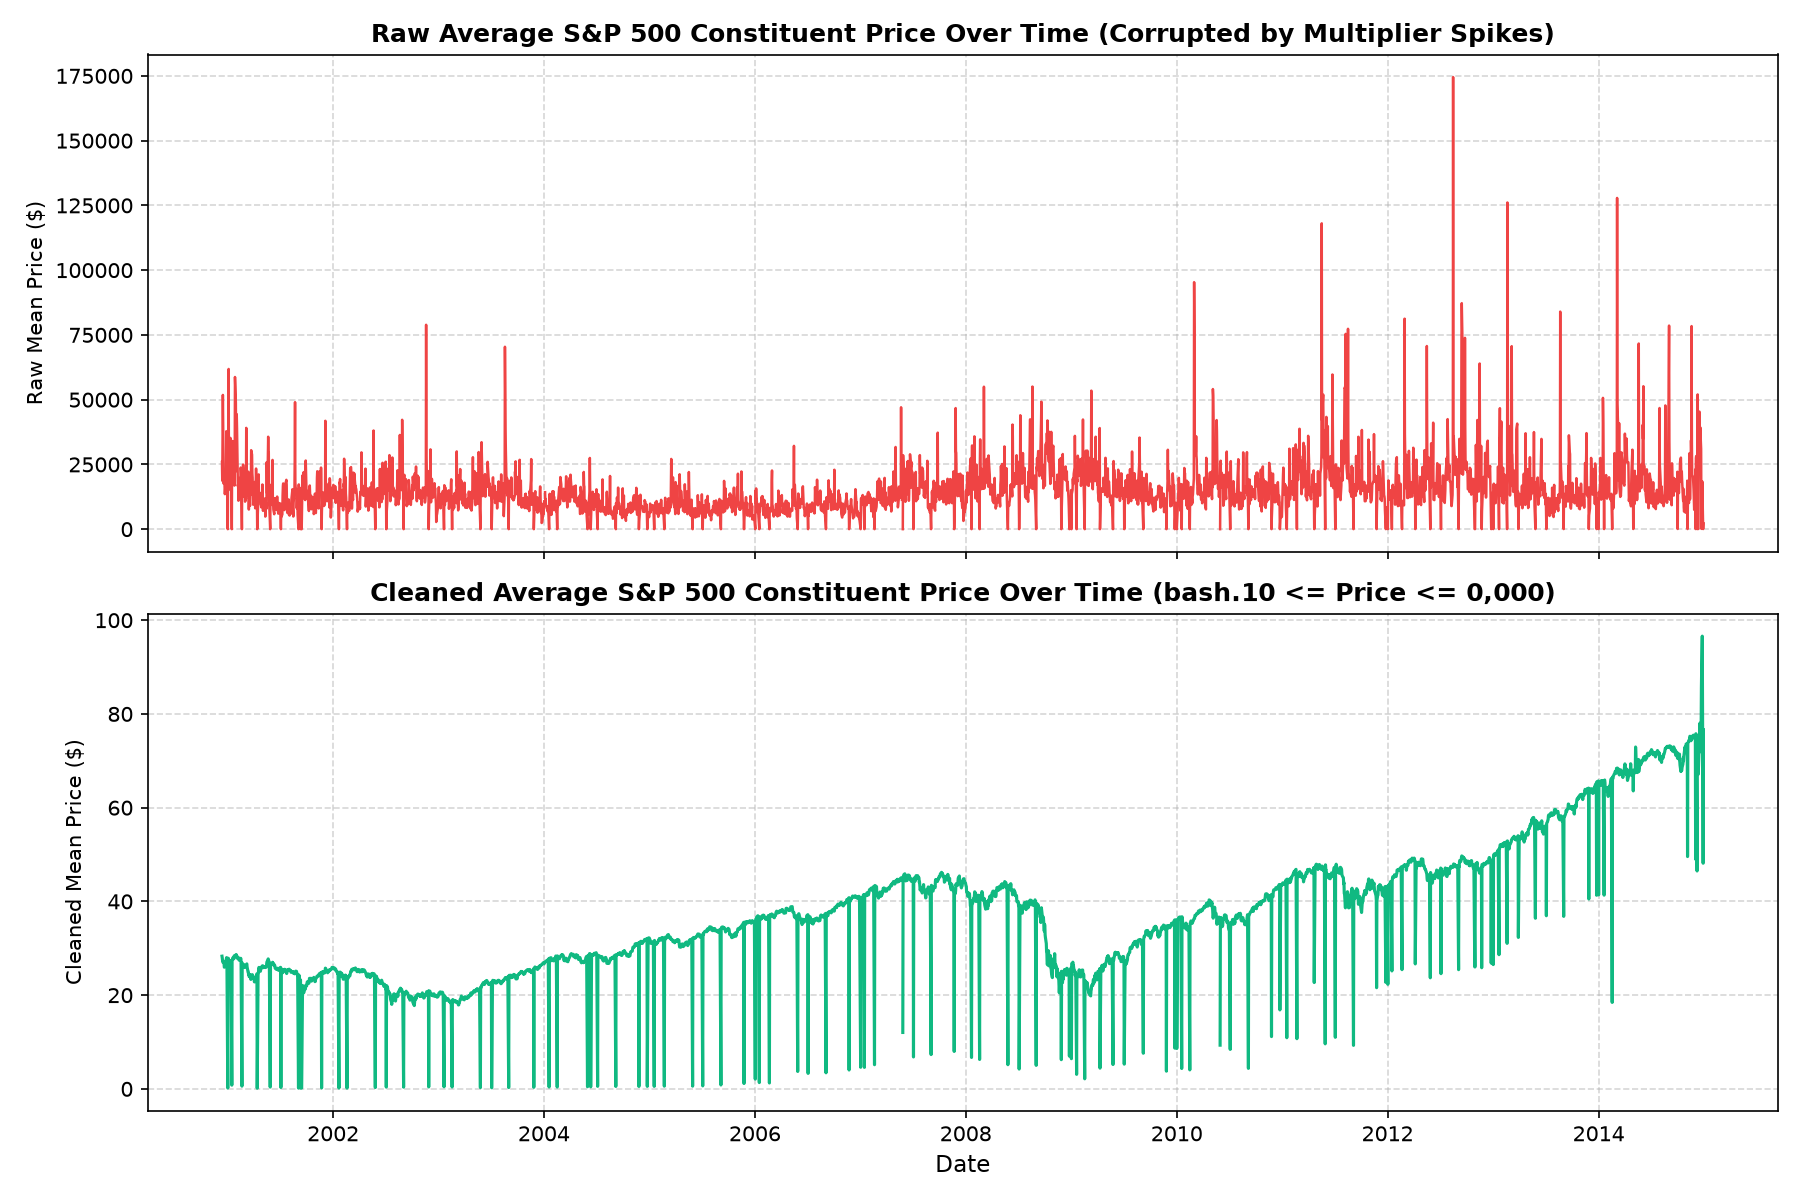
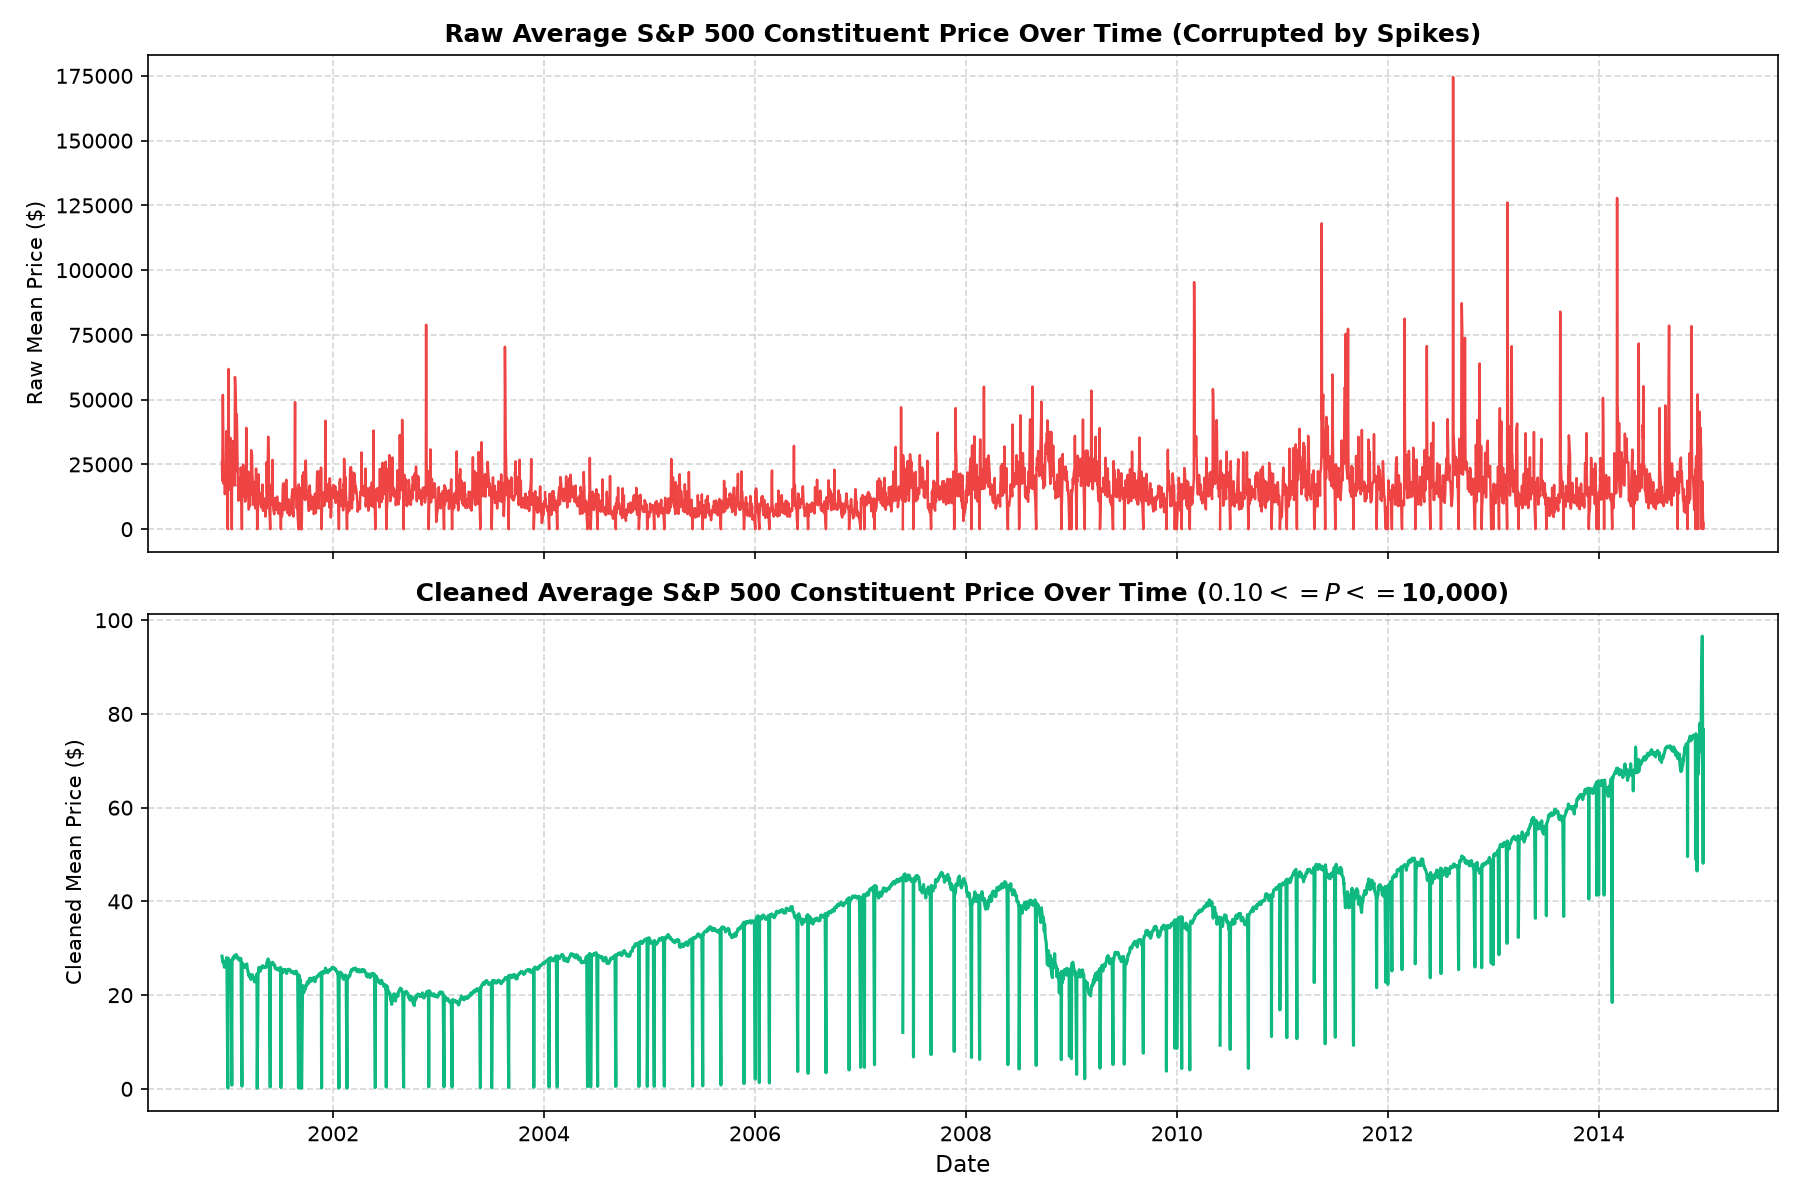
refactor: enhance memory_reducer API flexibility and pre-render notebook outputs for audit

Changed region(s): [[0.2178, 0.4625, 0.8711, 0.5242], [0.2178, 0.0, 0.8711, 0.0617]]

diff --git a/scripts/memory_reducer.py b/scripts/memory_reducer.py
@@ -1,6 +1,7 @@
+import os
 import pandas as pd
 import numpy as np
-import os
+from typing import Union
 
 
 def get_memory_usage(df: pd.DataFrame) -> float:
@@ -9,7 +10,14 @@ def get_memory_usage(df: pd.DataFrame) -> float:
 
 
 def optimize_dtypes(df: pd.DataFrame) -> pd.DataFrame:
-    """Optimize numeric column dtypes to reduce memory usage."""
+    """
+    Optimize numeric column dtypes to reduce memory usage:
+    - Iterate over every column
+    - Determine if the column is numeric
+    - Determine if the column can be represented by an integer
+    - Find min and max values
+    - Apply smallest datatype that fits range (np.float32 minimum for floats)
+    """
     df = df.copy()
 
     for col in df.columns:
@@ -19,52 +27,67 @@ def optimize_dtypes(df: pd.DataFrame) -> pd.DataFrame:
             if pd.api.types.is_integer_dtype(col_type):
                 df[col] = pd.to_numeric(df[col], downcast='integer')
             else:
+                # For floating-point data, the smallest data type used must be np.float32
                 df[col] = df[col].astype(np.float32)
 
     return df
 
 
-def memory_reducer(paths: dict) -> tuple:
+def memory_reducer(input_data: Union[str, dict]) -> Union[pd.DataFrame, tuple]:
     """
-    Load CSV files, optimize dtypes, and return memory-optimized DataFrames.
+    Load CSV file(s), optimize types to reduce memory usage, and return optimized DataFrame(s).
 
-    Args:
-        paths: dict with keys 'prices' and 'sp500' pointing to CSV file paths
-
-    Returns:
-        Tuple of (prices_df, sp500_df) with optimized dtypes
+    Supports:
+    1. Single CSV file path (str): returns single memory-optimized DataFrame.
+    2. Dict of paths (dict): e.g. {'prices': 'path', 'sp500': 'path'}, returns (prices_df, sp500_df).
     """
-    prices_path = paths['prices']
-    sp500_path = paths['sp500']
+    if isinstance(input_data, str):
+        df = pd.read_csv(input_data)
+        if 'Date' in df.columns:
+            df = df.rename(columns={'Date': 'date'})
+        if 'Adjusted Close' in df.columns:
+            df = df.rename(columns={'Adjusted Close': 'adj_close'})
+        if 'date' in df.columns:
+            df['date'] = pd.to_datetime(df['date'])
 
-    prices = pd.read_csv(prices_path)
-    sp500 = pd.read_csv(sp500_path)
+        initial_mem = get_memory_usage(df)
+        df = optimize_dtypes(df)
+        optimized_mem = get_memory_usage(df)
+        print(f"Memory reduction ({os.path.basename(input_data)}): {initial_mem:.2f} MB -> {optimized_mem:.2f} MB")
+        return df
 
-    prices = prices.rename(columns={'Date': 'date'})
-    sp500 = sp500[['Date', 'Adjusted Close']].rename(columns={'Date': 'date', 'Adjusted Close': 'adj_close'})
-    sp500['date'] = pd.to_datetime(sp500['date'])
+    elif isinstance(input_data, dict):
+        prices_path = input_data['prices']
+        sp500_path = input_data['sp500']
 
-    print(f"Original prices memory: {get_memory_usage(prices):.2f} MB")
-    print(f"Original sp500 memory: {get_memory_usage(sp500):.2f} MB")
+        prices = pd.read_csv(prices_path)
+        sp500 = pd.read_csv(sp500_path)
 
-    sp500 = optimize_dtypes(sp500)
+        prices = prices.rename(columns={'Date': 'date'})
+        sp500 = sp500[['Date', 'Adjusted Close']].rename(columns={'Date': 'date', 'Adjusted Close': 'adj_close'})
+        sp500['date'] = pd.to_datetime(sp500['date'])
 
-    prices = optimize_dtypes(prices)
-    sp500 = optimize_dtypes(sp500)
+        print(f"Original prices memory: {get_memory_usage(prices):.2f} MB")
+        print(f"Original sp500 memory: {get_memory_usage(sp500):.2f} MB")
 
-    print(f"Optimized prices memory: {get_memory_usage(prices):.2f} MB")
-    print(f"Optimized sp500 memory: {get_memory_usage(sp500):.2f} MB")
+        prices = optimize_dtypes(prices)
+        sp500 = optimize_dtypes(sp500)
 
-    assert get_memory_usage(prices) < 8, "Prices dataset must be < 8MB"
-    assert get_memory_usage(sp500) < 0.15, "SP500 dataset must be < 0.15MB"
+        print(f"Optimized prices memory: {get_memory_usage(prices):.2f} MB")
+        print(f"Optimized sp500 memory: {get_memory_usage(sp500):.2f} MB")
 
-    for col in prices.select_dtypes(include=[np.floating]).columns:
-        assert prices[col].dtype == np.float32, f"Float column {col} not float32"
+        assert get_memory_usage(prices) < 8.0, "Prices dataset must be < 8MB"
+        assert get_memory_usage(sp500) < 0.15, "SP500 dataset must be < 0.15MB"
 
-    for col in sp500.select_dtypes(include=[np.floating]).columns:
-        assert sp500[col].dtype == np.float32, f"Float column {col} not float32"
+        for col in prices.select_dtypes(include=[np.floating]).columns:
+            assert prices[col].dtype == np.float32, f"Float column {col} not float32"
 
-    return prices, sp500
+        for col in sp500.select_dtypes(include=[np.floating]).columns:
+            assert sp500[col].dtype == np.float32, f"Float column {col} not float32"
+
+        return prices, sp500
+    else:
+        raise TypeError(f"Expected str or dict, got {type(input_data)}")
 
 
 if __name__ == "__main__":

diff --git a/scripts/backtester.py b/scripts/backtester.py
@@ -140,6 +140,10 @@ def backtest(prices: pd.DataFrame, sp500: pd.DataFrame, results_dir: str = 'resu
     }
 
 
+# Backward-compatible alias
+backtester = backtest
+
+
 if __name__ == "__main__":
     from memory_reducer import memory_reducer
     from preprocessing import preprocessing
